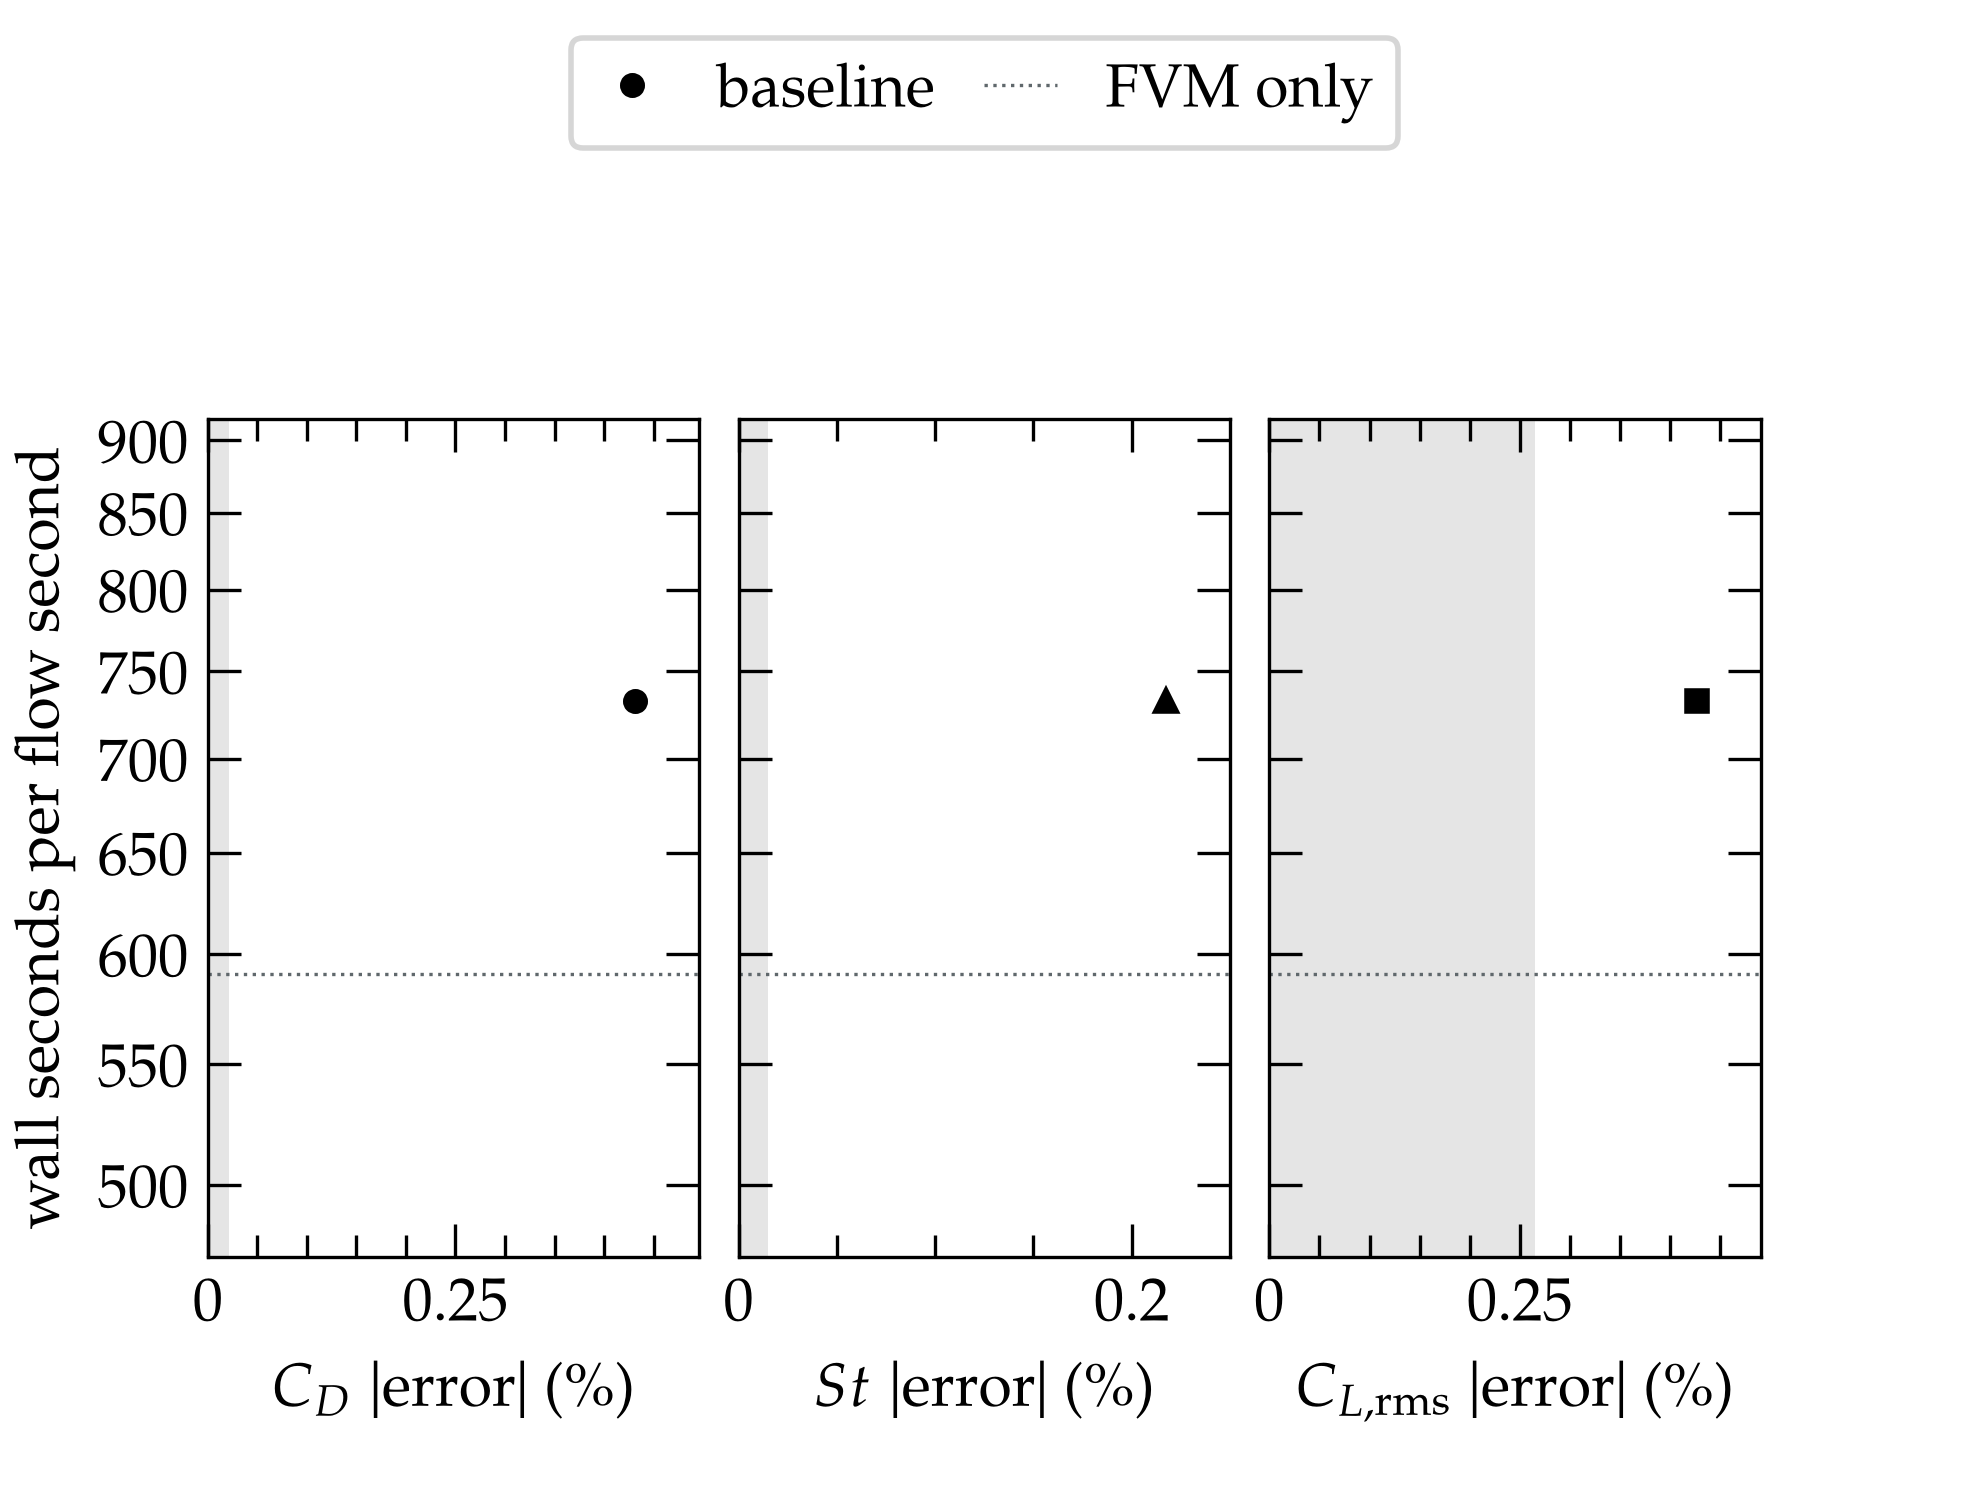
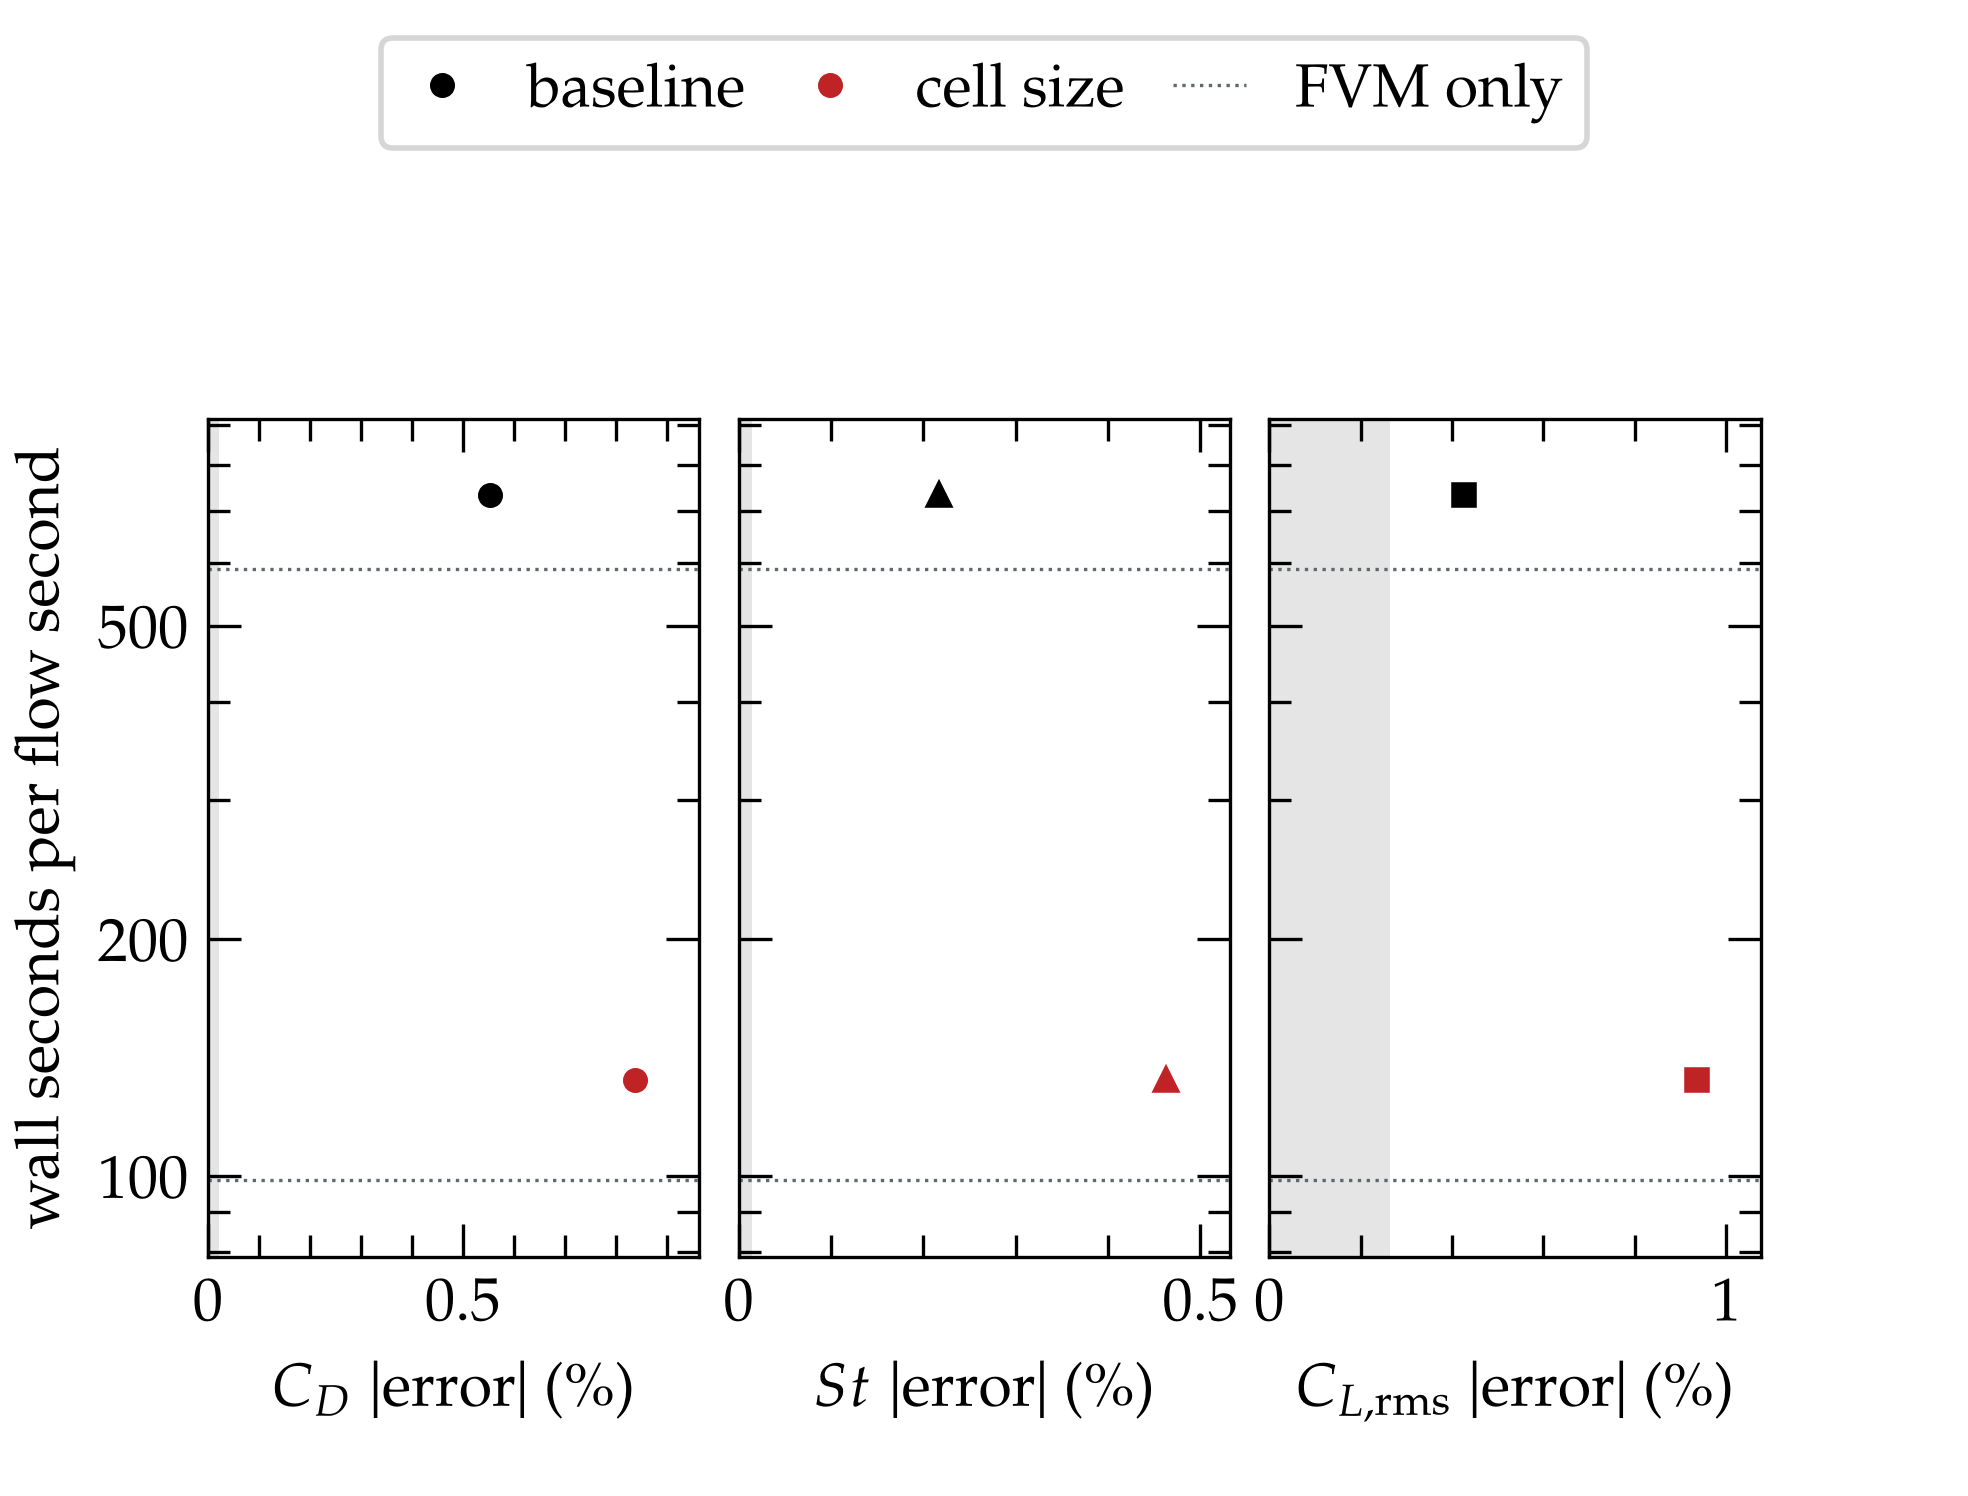
Use the complete Allen–Vincenti drag correction in the cylinder study plots

diff --git a/tutorials/coupled_fvm_vpm/01_cylinder_shedding_flow/assets/plot_study.py b/tutorials/coupled_fvm_vpm/01_cylinder_shedding_flow/assets/plot_study.py
@@ -25,7 +25,8 @@ missing, or have not reached the end of the statistics window, is skipped with a
 The error of a run is Q_coupled / Q_FVM - 1 against the FVM-only run with the same cells and FVM
 step, over the whole shedding periods in the study window. The FVM domain is bounded by slip
 walls 32 D apart and the coupled one is not, so every FVM value is corrected for blockage
-(Allen and Vincenti): forces by (U'/U)^2, St by U'/U.
+(Allen and Vincenti): drag by 1 - 2 eps_w - 3 eps_s (Sadeh and Saharon 1982, eq. 3.5), lift by
+(U'/U)^2, St by U'/U.
 
 Usage, from the case directory:
     python -m assets.plot_study [--runs DIR] [--figures DIR] [--window START END]
@@ -135,10 +136,18 @@ def blockage_factor(drag):
     return 1 + 0.25 * drag * ratio + 0.82 * ratio**2
 
 
+def drag_factor(drag):
+    """Corrected over measured drag between slip walls, Allen and Vincenti, 1 - 2 eps_w - 3 eps_s,
+    in the form of Sadeh and Saharon (1982), eq. (3.5)."""
+    ratio = DIAMETER / REFERENCE_HEIGHT
+    return 1 - 0.5 * drag * ratio - 2.467 * ratio**2
+
+
 def corrected(stats):
-    """Unbounded-flow statistics of an FVM-only run: forces scale with U^2, St with U."""
+    """Unbounded-flow statistics of an FVM-only run: drag by the Allen-Vincenti drag correction, lift
+    with U^2, St with U."""
     factor = blockage_factor(stats["CD"])
-    out = {"CD": stats["CD"] / factor**2, "CL": stats["CL"] / factor**2, "St": stats["St"] / factor}
+    out = {"CD": stats["CD"] * drag_factor(stats["CD"]), "CL": stats["CL"] / factor**2, "St": stats["St"] / factor}
     if "CL_rms" in stats:
         out["CL_rms"] = stats["CL_rms"] / factor**2
     return out
@@ -221,10 +230,16 @@ def run_settings(directory):
 
 
 def differences(settings):
-    """Settings in which a run differs from the baseline."""
+    """Settings in which a run differs from the baseline. The box margin is snapped to the cells of
+    the run's mesh, so it counts as unchanged within one cell."""
     changed = set()
     for key, value in BASELINE.items():
-        same = settings[key] == value if isinstance(value, str) else np.isclose(settings[key], value)
+        if isinstance(value, str):
+            same = settings[key] == value
+        elif key == "margin":
+            same = abs(settings[key] - value) <= settings["cell"] + 1e-9
+        else:
+            same = np.isclose(settings[key], value)
         if not same:
             changed.add(key)
     return changed
@@ -477,10 +492,12 @@ def figure_forces(run, figure_dir, steady_start):
         first, last, _ = whole_periods(forces, steady_start, end)
         stats = shedding_statistics(forces, steady_start, end)
         factor = blockage_factor(stats["CD"]) if bounded else 1.0
+        scale = {"drag_coefficient": drag_factor(stats["CD"]) if bounded else 1.0,
+                 "lift_coefficient": 1.0 / factor**2}
         time = forces["time"] * FREESTREAM_SPEED / DIAMETER
         for axis, key in zip(axes, ("drag_coefficient", "lift_coefficient")):
-            axis.plot(time, forces[key] / factor**2, label=label, **style)
-        mean = stats["CD"] / factor**2
+            axis.plot(time, forces[key] * scale[key], label=label, **style)
+        mean = stats["CD"] * scale["drag_coefficient"]
         axes[0].plot([first, last], [mean, mean], color=style["color"], linestyle=":", linewidth=LINE_WIDTH)
     axes[0].set_ylabel("drag coefficient")
     axes[1].set_ylabel("lift coefficient")
